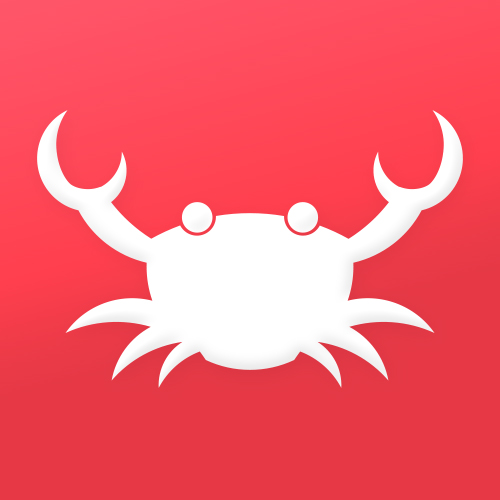
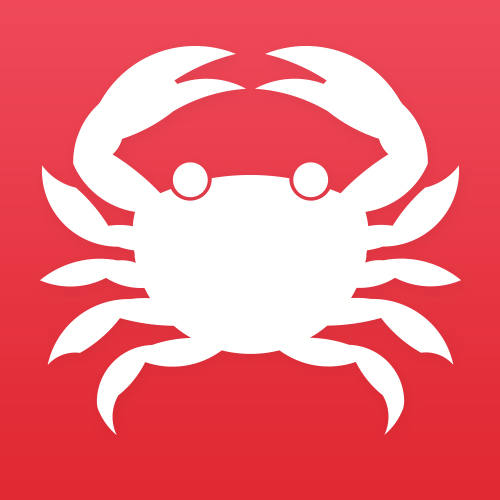
Crabber rebrand! Wow!

Changed region(s): [[0.0, 0.09, 0.93, 0.6], [0.09, 0.6, 0.9, 0.87]]

diff --git a/templates/base.html b/templates/base.html
@@ -83,10 +83,10 @@
             <div class="col-2 col-lg-3 p-1" id="nav-panel">
                 <!-- Logo -->
                 <svg class="mt-2 d-block mx-auto d-lg-inline mx-lg-0 logo clickable"
-                xmlns="http://www.w3.org/2000/svg" viewBox="0 0 963.625 629.032"
+                xmlns="http://www.w3.org/2000/svg" viewBox="0 0 999.938 1000"
                 alt="Crabber Logo" width="43" height="43"
                 onclick="location.href='/'">
-                    <path id="claw_2" data-name="claw 2" class="cls-1" d="M979.339,278.832a121.009,121.009,0,0,1-90.236,93.48c-0.089-.23-0.188-0.457-0.279-0.687a234.619,234.619,0,0,1-155,119.608c0.108,2.91.175,5.83,0.175,8.767a233.571,233.571,0,0,1-13.16,77.506,183.9,183.9,0,0,1,196.483,72.747,277.844,277.844,0,0,0-192.879-13.776,172.376,172.376,0,0,1,88.69,121.45,260.675,260.675,0,0,0-160.645-87.458,116.841,116.841,0,0,1,54.142,104.212A176.325,176.325,0,0,0,613.538,692.3q-7.012,9.54-13.654,19.361a234.427,234.427,0,0,1-199.768,0q-6.63-9.828-13.654-19.361a176.33,176.33,0,0,0-93.1,82.406,116.843,116.843,0,0,1,54.1-104.224,260.67,260.67,0,0,0-160.579,87.44,172.363,172.363,0,0,1,88.7-121.436A277.843,277.843,0,0,0,82.677,650.253,183.894,183.894,0,0,1,279.16,577.506,233.571,233.571,0,0,1,266,500c0-2.937.066-5.857,0.174-8.768a234.617,234.617,0,0,1-155-119.607c-0.091.23-.19,0.457-0.279,0.687A121.032,121.032,0,0,1,86.643,145.648,134.56,134.56,0,0,0,61.9,211.041c-1.105,11.237-.692,24.582,2.1,40.072C70.435,286.86,86.969,309.237,96,315c7.226,4.611,17.547,8.524,32.379,9.452a78.061,78.061,0,0,0,33.308-5.24c0.112,0.187.229,0.372,0.342,0.559a90.119,90.119,0,0,0,47.916-80.2,91,91,0,0,1-24.546,114.4,353.361,353.361,0,0,0,91.027,83.038,455.361,455.361,0,0,1,65.457-30.11A43,43,0,0,0,423,387c0-.541-0.021-1.078-0.041-1.614a461.8,461.8,0,0,1,154.077.171c-0.015.48-.036,0.959-0.036,1.443a43,43,0,0,0,80.959,20.2,455.3,455.3,0,0,1,65.143,30.1,353.354,353.354,0,0,0,91.5-83.336,91,91,0,0,1-24.546-114.4,90.119,90.119,0,0,0,47.916,80.2c0.113-.187.23-0.372,0.342-0.559a78.061,78.061,0,0,0,33.308,5.24c14.832-.928,25.153-4.841,32.379-9.452,9.031-5.763,25.565-28.14,32-63.887,2.79-15.49,3.2-28.836,2.1-40.074a134.55,134.55,0,0,0-24.743-65.391A121.045,121.045,0,0,1,979.339,278.832ZM619.5,423A34.5,34.5,0,1,1,654,388.5,34.5,34.5,0,0,1,619.5,423Zm-239,0A34.5,34.5,0,1,1,415,388.5,34.5,34.5,0,0,1,380.5,423Z" transform="translate(-18.188 -145.656)"/>
+                  <path id="limbs_copy" data-name="limbs copy" class="cls-1" d="M357.1,406.067a41.293,41.293,0,1,1,41.273-41.292A41.282,41.282,0,0,1,357.1,406.067Zm327.19-41.292a41.273,41.273,0,1,1-41.272-41.293A41.282,41.282,0,0,1,684.287,364.775Zm130.4,158.588c-0.12,0-.239,0-0.358-0.005a202.129,202.129,0,0,1-37.678,8.857c-0.637,4-1.332,8-2.06,11.948,0.36,0.109.725,0.2,1.084,0.314-0.882,5.805-1.967,11.541-3.208,17.218a97.813,97.813,0,0,1,33.846-6.016q4.622,0,9.138.424a223.9,223.9,0,0,1,184.534,47.039,183.887,183.887,0,0,1-156.733-5.8,155.889,155.889,0,0,1-83.6,24.163c-2.6,0-5.173-.087-7.739-0.212a271.7,271.7,0,0,1-13.457,24.638c4.832-.314,9.7-0.488,14.616-0.488a223.545,223.545,0,0,1,32.967,2.435c1.171-.024,2.344-0.042,3.52-0.042,94.61,0,173.532,67.017,192.044,156.18a87,87,0,0,0-76.58-28.551,312.577,312.577,0,0,1-94.861-82.632,499.26,499.26,0,0,1-127.874,18.379,270.393,270.393,0,0,1-41.444,28.862A302.891,302.891,0,0,1,734.7,757.092c-0.019-.071-0.042-0.141-0.062-0.212A135.2,135.2,0,0,1,864.93,892.005c0,5-1.4,9.132-1.93,14-0.1.333-.018-0.182,0.086,0.338a151.11,151.11,0,0,1-44.907,64.152,101.138,101.138,0,0,0-4.042-93.986,233.149,233.149,0,0,1-64.025-79.2A196.289,196.289,0,0,1,568.848,769.76a281.269,281.269,0,0,1-137.157.1,196.294,196.294,0,0,1-181.726,27.865,233.273,233.273,0,0,1-64.045,79.246,101.22,101.22,0,0,0-4.043,94.04,151.191,151.191,0,0,1-44.921-64.188c-0.342.154,0.387,0.022,0.044,0.174-0.529-4.866-1.888-9.509-1.888-14.516a135.256,135.256,0,0,1,130.333-135.2c-0.02.071-.043,0.141-0.062,0.211a302.894,302.894,0,0,1,93.88-17.024,270.421,270.421,0,0,1-41.457-28.879A499.208,499.208,0,0,1,189.893,693.2,312.678,312.678,0,0,1,95,775.881a87,87,0,0,0-76.6,28.567C36.917,715.235,115.863,648.18,210.5,648.18c1.177,0,2.35.018,3.521,0.042A223.557,223.557,0,0,1,247,645.785c4.913,0,9.786.174,14.62,0.489a271.728,271.728,0,0,1-13.461-24.652c-2.567.125-5.143,0.212-7.741,0.212A155.905,155.905,0,0,1,156.8,597.657a183.9,183.9,0,0,1-156.781,5.8,223.911,223.911,0,0,1,184.59-47.066q4.515-.418,9.142-0.425a97.8,97.8,0,0,1,33.855,6.02c-1.241-5.68-2.326-11.42-3.208-17.227,0.388-.121.784-0.224,1.174-0.341-0.728-3.934-1.423-7.929-2.061-11.916a202.16,202.16,0,0,1-37.779-8.875c-0.12,0-.238,0-0.358,0-99.8,0-180.7-80.962-180.7-180.833,0-3.992.143-7.949,0.4-11.876A137.7,137.7,0,0,0,85.31,383.663a397.491,397.491,0,0,1,76.976,90.656,163.9,163.9,0,0,1,58.29.9,169.424,169.424,0,0,1,5.266-34.184A192.911,192.911,0,0,1,78.907,326.669c-0.016-1.01-.038-2.017-0.038-3.03a191.5,191.5,0,0,1,10.1-61.571l0.176,0.073a180.9,180.9,0,0,1,49.865-76.834q2.64-3.721,5.381-7.365C188.558,99.781,272.335,47,368.463,47a256.349,256.349,0,0,1,96.7,18.824,465.06,465.06,0,0,0-146.086,62.962q3.687,4.165,7.206,8.482A198.27,198.27,0,0,1,489.287,148.5,389.843,389.843,0,0,0,316.5,201.919a385.486,385.486,0,0,1-121.7,65.693,75.453,75.453,0,0,1-22.568,36.78,566.442,566.442,0,0,1,113.541,92.376q12.416-5.276,25.127-9.975a51.435,51.435,0,0,0,97.041-23.814c0-.648-0.025-1.29-0.048-1.932a552.2,552.2,0,0,1,184.323.2c-0.019.575-.043,1.148-0.043,1.727a51.438,51.438,0,0,0,96.852,24.184q12.568,4.644,24.828,9.9a566.3,566.3,0,0,1,113.969-92.822,75.4,75.4,0,0,1-22.56-36.759A385.4,385.4,0,0,1,683.6,201.832a389.775,389.775,0,0,0-172.736-53.391A198.257,198.257,0,0,1,673.82,137.217q3.519-4.311,7.2-8.478A465,465,0,0,0,534.982,65.813,256.331,256.331,0,0,1,631.65,47c96.1,0,179.85,52.751,224,130.868q2.745,3.638,5.38,7.361a180.8,180.8,0,0,1,49.849,76.79l0.176-.073a191.33,191.33,0,0,1,10.1,61.536c0,1.012-.023,2.02-0.038,3.028A192.838,192.838,0,0,1,772.844,441.032a181.36,181.36,0,0,1,6.611,33.952,163.868,163.868,0,0,1,58.309-.907,397.285,397.285,0,0,1,76.952-90.605,137.655,137.655,0,0,0,80.213-52.709c0.255,3.925.4,7.88,0.4,11.869C995.327,442.447,914.451,523.363,814.685,523.363Z" transform="translate(-0.031 -9)"/>
                 </svg>
 
                 <!-- Nav Buttons -->

diff --git a/templates/welcome.html b/templates/welcome.html
@@ -23,7 +23,7 @@
 
     <!-- Large crabber logo / header -->
     <img src="{{url_for('static', filename='img/crabber_header.svg')}}" alt="Large crabber header"
-        class="header-cover mb-4">
+        class="header-cover scroll-destination scroll-destination-mobile mb-4">
 
     <!-- Sales pitch -->
     <div class="d-flex flex w-100 justify-content-center scroll-destination">
